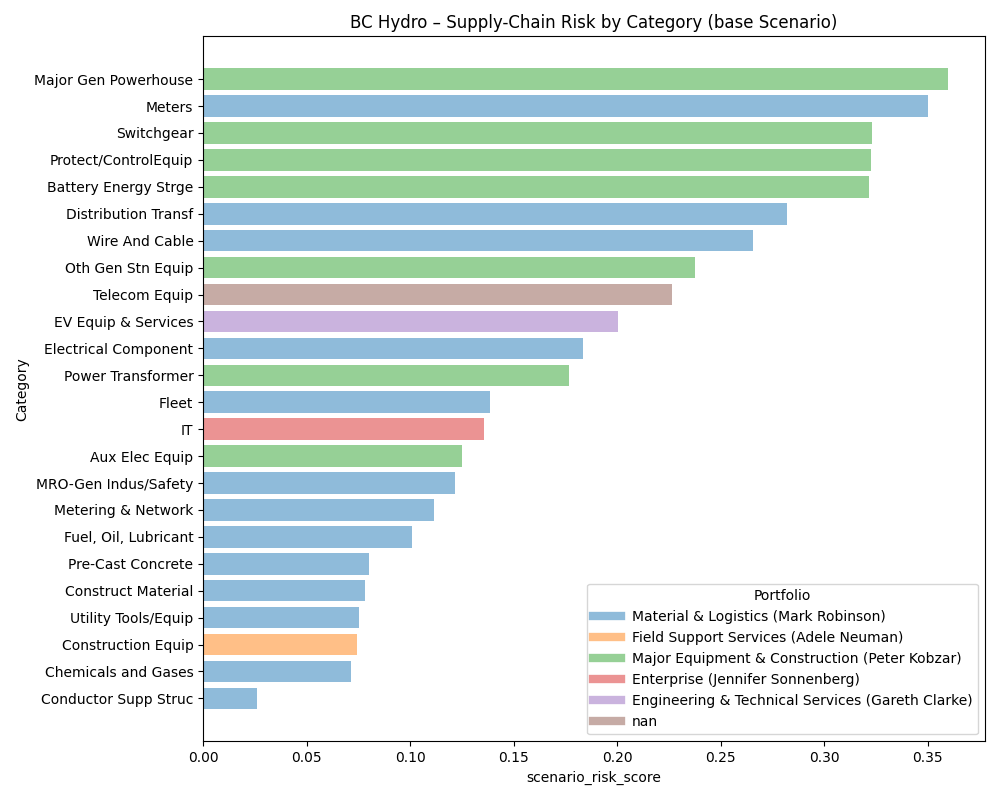
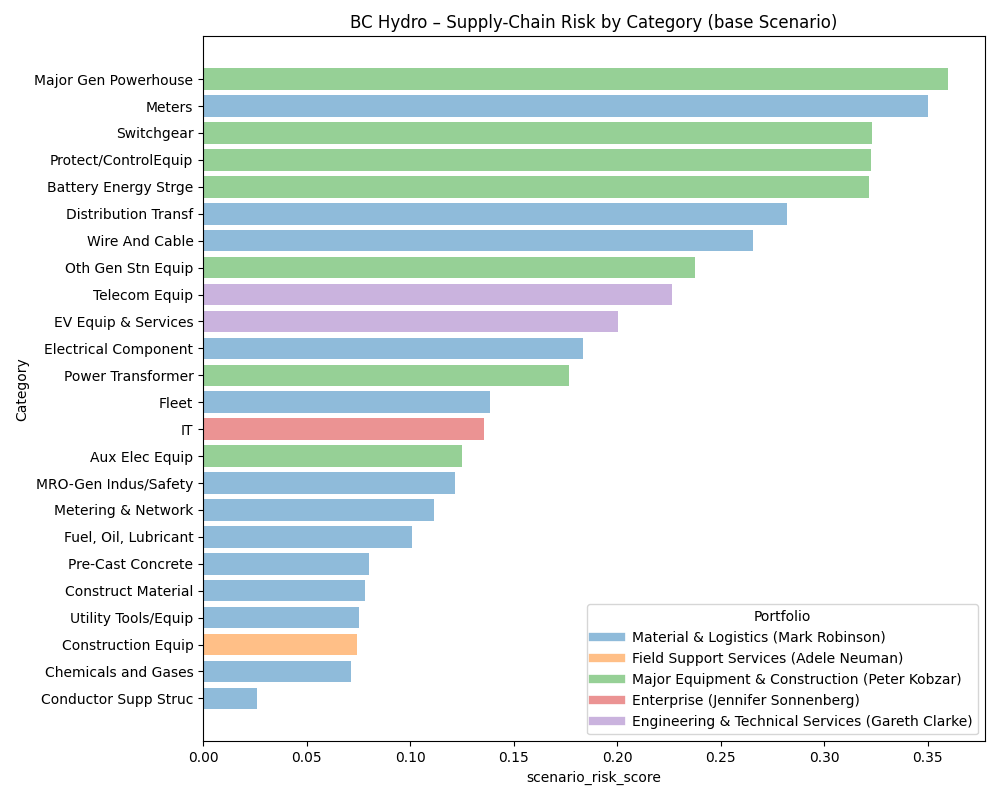
added plot

Changed region(s): [[0.589, 0.7188, 0.992, 0.9062], [0.186, 0.3438, 0.682, 0.4062]]

diff --git a/ploting.py b/ploting.py
@@ -3,7 +3,7 @@ import matplotlib.pyplot as plt
 import matplotlib.cm as cm
 import matplotlib.colors as mcolors
 
-MODE_NAME = "tariff25"
+MODE_NAME = "base"
 df = pd.read_csv(f"risk_scores_{MODE_NAME}.csv")
 
 # Mapping dictionary (already provided by you)
@@ -17,6 +17,7 @@ category_to_portfolio = {
     "Wire And Cable": "Material & Logistics (Mark Robinson)",
     "Oth Gen Stn Equip": "Major Equipment & Construction (Peter Kobzar)",
     "Telecom": "Engineering & Technical Services (Gareth Clarke)",
+    "Telecom Equip": "Engineering & Technical Services (Gareth Clarke)",
     "EV Equip & Services": "Engineering & Technical Services (Gareth Clarke)",
     "Electrical Component": "Material & Logistics (Mark Robinson)",
     "Power Transformer": "Major Equipment & Construction (Peter Kobzar)",
